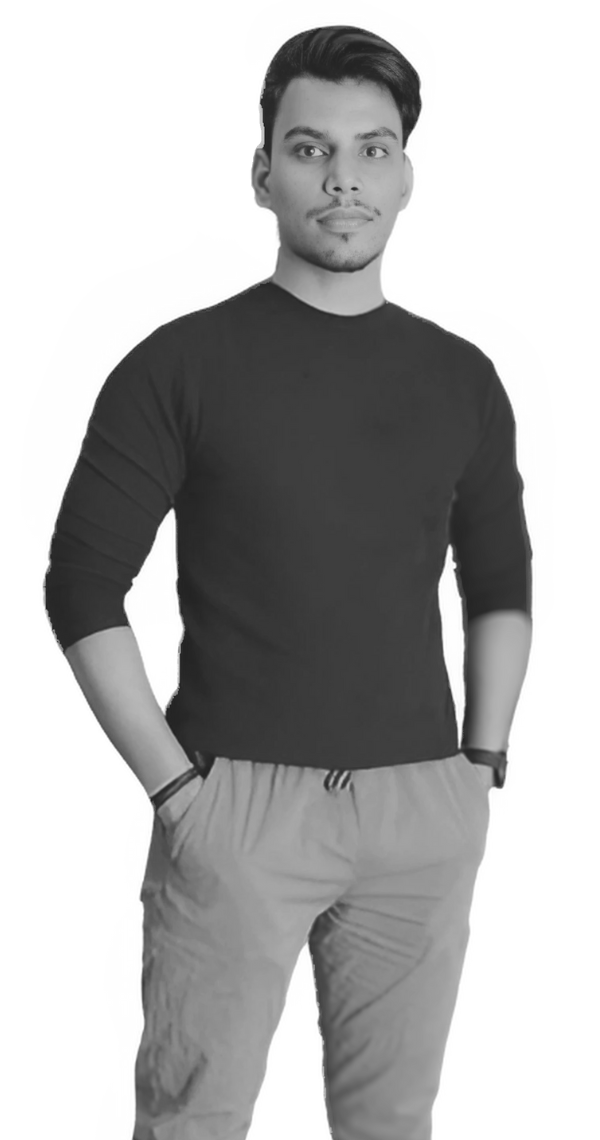
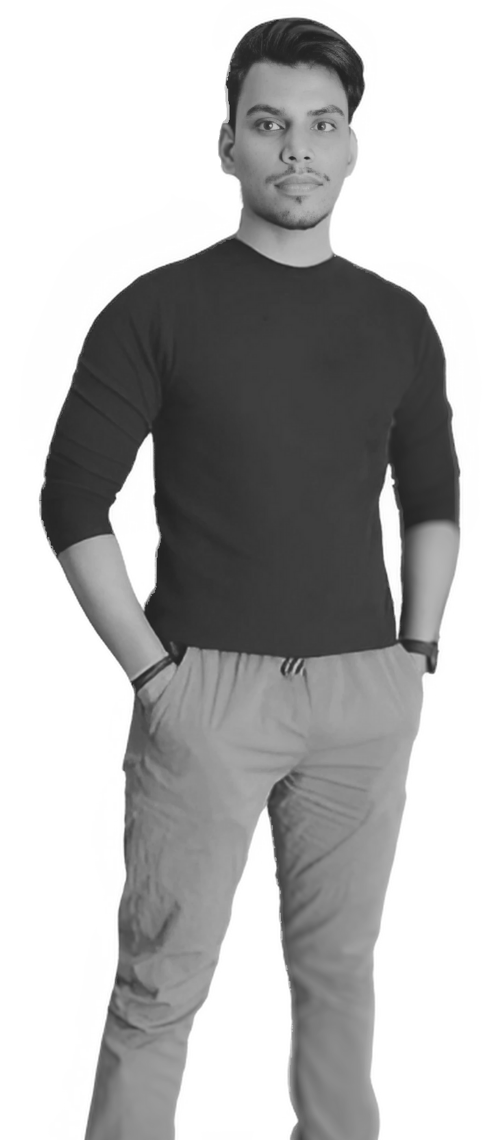
added img in about page

Changed region(s): [[0.06, 0.0, 0.93, 1.0], [0.69, 0.9211, 0.78, 1.0], [0.66, 0.9518, 0.69, 0.9825]]

diff --git a/src/components/About.jsx b/src/components/About.jsx
@@ -68,7 +68,23 @@ export default function About() {
   return (
     <div className="size-full overflow-auto scrollbar-hide ">
       <div className="flex">
-        <div className="w-[30%] h-[1140px]  bg-[#AAAAAA]"></div>
+        <div className="w-[30%] h-[1140px]  bg-[#AAAAAA] bg-[url(img-about.png)] bg-[center_60%] bg-contain bg-no-repeat flex flex-col justify-between items-center p-11">
+          <div className="bg-black text-white text-4xl font-bold p-3">
+            NIKHIL SINGH
+          </div>
+          <div className="flex flex-col gap-10 pb-7">
+            <h1 className="text-white font-bold text-5xl text-center">Ready to discuss your project?</h1>
+            <div>
+              <p className="text-white font-bold text-[15px] text-center">Let's super-charge your business today!</p>
+              <div className="relative text-black mt-4">
+                <div className="h-13 w-70 bg-[linear-gradient(90deg,rgba(231,255,135,1)_5%,rgba(207,254,25,1)_40%,rgba(107,222,53,1)_90%)] absolute top-0 left-0"></div>
+                <div className="h-13 w-70 flex items-center justify-center bg-white relative  -translate-x-2 -translate-y-2 hover:translate-x-0 hover:translate-y-0 transition-all duration-300 ease-in-out">
+                  <a href="">Get a Free Price Quote</a>
+                </div>
+              </div>
+            </div>
+          </div>
+        </div>
         <div className="w-[70%] h-[1140px]  bg-[#222225] ">
           <div className="p-10">
             <h1 className="text-white font-bold text-4xl">
